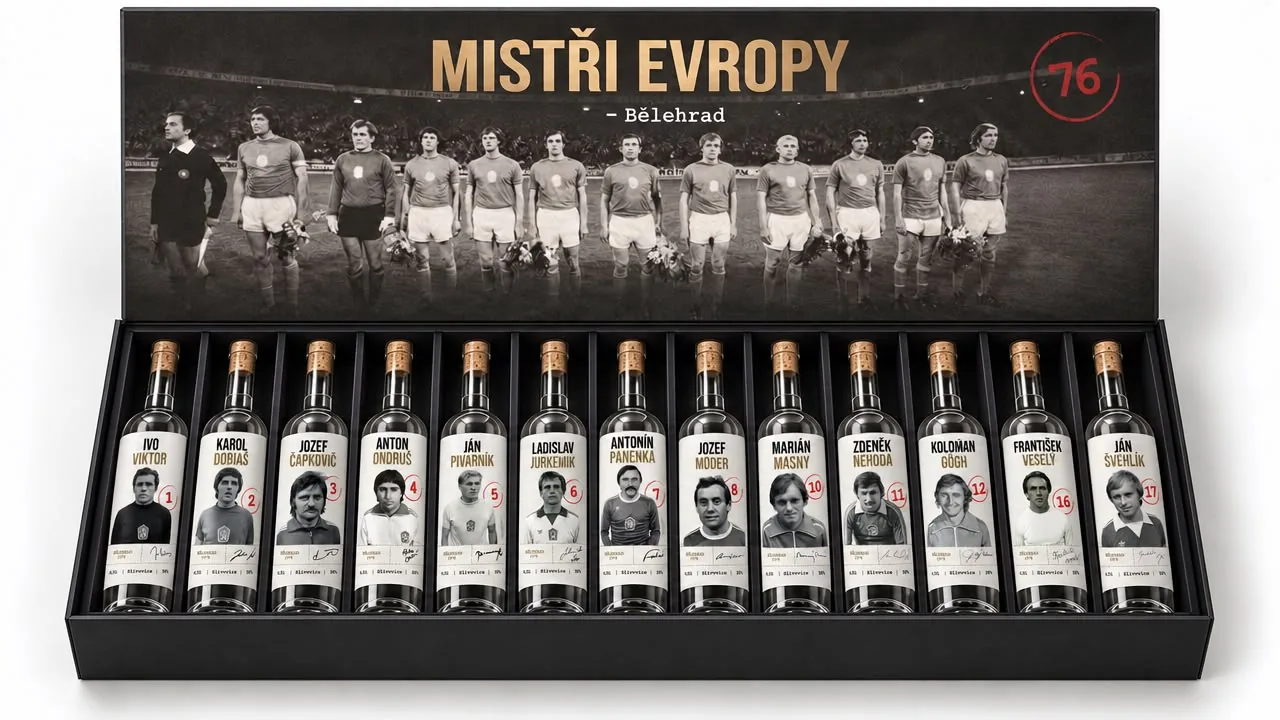
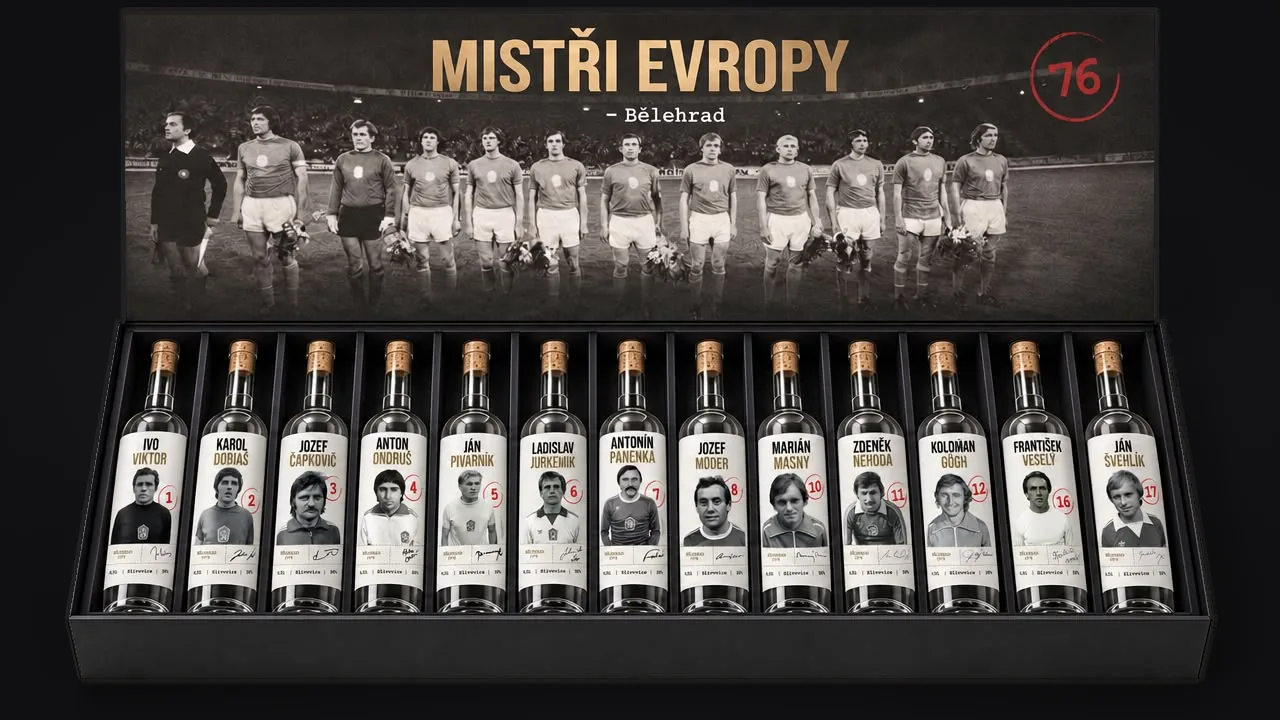
Box na tmavém pozadí, bez fotky 13 lahví, objednávky znovu povolené
- fotky otevřeného a zavřeného boxu na tmavém pozadí (scripts/box-backdrop.ts, součást images:prepare)
- fotka 13 lahví vedle sebe odstraněna (galerie boxu, sekce Příběh na úvodu – místo ní zavřený box)
- zavřený box v galerii e-shopu zmenšený, bez bílých pruhů; ?v=2 kvůli mezipaměti
- objednávky znovu povolené (sales.open = true), web dál za PINem, platba převodem / QR

Changed region(s): [[0.0, 0.0, 1.0, 1.0]]

diff --git a/scripts/box-backdrop.ts b/scripts/box-backdrop.ts
@@ -1,0 +1,109 @@
+/**
+ * Fotky boxu na tmavém pozadí (stejné jako nová fotka lahve): bílé pozadí fotky se nahradí tmavým
+ * šedým přechodem – uprostřed o něco světlejším, k okrajům tmavším. Box se neořezává ani nevyřezává.
+ *
+ * 1. Bílé pozadí = vše světlé, co je dosažitelné od okraje fotky → nahradí se tmavým pozadím.
+ * 2. Stín kolem boxu (šedý) = navazuje na bílé pozadí → nahradí se tmavším pozadím.
+ * 3. Hrana boxu (pás pár pixelů na obě strany hrany – přechodové pixely a šedé obrysové linky víka): odečte se
+ *    z nich jen podíl bílé a nahradí podílem tmavého pozadí – linky zůstanou souvislé, bez světlého lemu.
+ *
+ * Používá npm run images:prepare.
+ */
+import sharp from "sharp";
+
+const EDGE = [16, 16, 18]; // tmavé pozadí u okrajů (podle fotky lahve)
+const CENTER = [40, 38, 44]; // světlejší střed
+const WHITE_BG = 200; // jas bílého pozadí
+const SHADOW = 90; // jas stínu pod boxem
+const BOX_LUM = 35; // typický jas boxu (pro rozklad přechodových pixelů)
+const RIM = 4; // šířka pásu u hrany boxu, kde se přechodové pixely rozkládají
+
+export async function boxOnBackdrop(src: string): Promise<sharp.Sharp> {
+  const { data, info } = await sharp(src).rotate().removeAlpha().raw().toBuffer({ resolveWithObject: true });
+  const W = info.width;
+  const H = info.height;
+  const N = W * H;
+  const lum = (i: number) => 0.299 * data[i * 3] + 0.587 * data[i * 3 + 1] + 0.114 * data[i * 3 + 2];
+
+  // 1 + 2: pozadí (BFS od okrajů) – bílá kdekoli, šedý stín jen ve spodní polovině
+  const bg = new Uint8Array(N);
+  const queue = new Int32Array(N);
+  let head = 0;
+  let tail = 0;
+  const push = (i: number) => {
+    if (bg[i]) return;
+    const l = lum(i);
+    if (l > SHADOW) {
+      bg[i] = 1;
+      queue[tail++] = i;
+    }
+  };
+  for (let x = 0; x < W; x++) {
+    push(x);
+    push((H - 1) * W + x);
+  }
+  for (let y = 0; y < H; y++) {
+    push(y * W);
+    push(y * W + W - 1);
+  }
+  while (head < tail) {
+    const i = queue[head++];
+    const x = i % W;
+    if (x > 0) push(i - 1);
+    if (x < W - 1) push(i + 1);
+    if (i >= W) push(i - W);
+    if (i < N - W) push(i + W);
+  }
+
+  // Referenční bílá (95. percentil jasu pozadí) a její barva
+  const lums: number[] = [];
+  for (let i = 0; i < N; i += 7) if (bg[i]) lums.push(lum(i));
+  lums.sort((a, b) => a - b);
+  const white = lums[Math.floor(lums.length * 0.95)] || 255;
+  const whiteRgb = [white, white, white];
+
+  // 3: pás u hrany boxu – RIM px do boxu a RIM px do šedého pozadí (obrysové linky)
+  const band = new Uint8Array(N);
+  const grow = (fromBg: boolean) => {
+    let frontier: number[] = [];
+    for (let i = 0; i < N; i++) if (!!bg[i] === fromBg) frontier.push(i);
+    for (let d = 0; d < RIM; d++) {
+      const next: number[] = [];
+      for (const i of frontier) {
+        const x = i % W;
+        for (const j of [x > 0 ? i - 1 : -1, x < W - 1 ? i + 1 : -1, i - W, i + W]) {
+          if (j < 0 || j >= N || band[j] || !!bg[j] === fromBg) continue;
+          if (!fromBg && lum(j) > WHITE_BG) continue; // bílé pozadí u hrany se nahradí celé
+          band[j] = 1;
+          next.push(j);
+        }
+      }
+      frontier = next;
+    }
+  };
+  grow(true); // do boxu
+  grow(false); // do šedého pozadí
+
+  const out = Buffer.from(data);
+  const smooth = (v: number) => v * v * (3 - 2 * v);
+  for (let y = 0; y < H; y++) {
+    const dy = (y - H / 2) / (H / 2);
+    for (let x = 0; x < W; x++) {
+      const i = y * W + x;
+      if (!bg[i] && !band[i]) continue;
+      const inBand = band[i] === 1;
+      const dx = (x - W / 2) / (W / 2);
+      const k = smooth(Math.min(1, Math.hypot(dx, dy) / 1.2)); // 0 uprostřed, 1 v rozích
+      const backdrop = [0, 1, 2].map((c) => CENTER[c] + (EDGE[c] - CENTER[c]) * k);
+      if (!inBand) {
+        const f = Math.min(1, lum(i) / white); // stín pod boxem → tmavší
+        for (let c = 0; c < 3; c++) out[i * 3 + c] = Math.round(backdrop[c] * f);
+      } else {
+        // pixel = a·bílá + (1−a)·box → nahradit bílou složku tmavým pozadím
+        const a = Math.min(1, Math.max(0, (lum(i) - BOX_LUM) / (white - BOX_LUM)));
+        for (let c = 0; c < 3; c++) out[i * 3 + c] = Math.max(0, Math.round(data[i * 3 + c] + a * (backdrop[c] - whiteRgb[c])));
+      }
+    }
+  }
+  return sharp(out, { raw: { width: W, height: H, channels: 3 } });
+}

diff --git a/scripts/prepare-images.ts b/scripts/prepare-images.ts
@@ -1,14 +1,14 @@
 /**
  * Připraví fotky pro web z roztříděných originálů ve složce foto/:
  *
- *   foto/box/1-otevreny.jpg, 2-trinact-lahvi.jpg, 3-zavreny.jpg
+ *   foto/box/1-otevreny.jpg, 3-zavreny.jpg      (bílé pozadí se nahradí tmavým – scripts/box-backdrop.ts)
  *   foto/hraci/NN-<slug>/1-lahev.jpg, 2-etiketa.jpg      (NN = číslo dresu, slug = Product.slug)
  *
  * Výstup do public/img/ (cesty používá DB – Product.imageUrl a galleryUrls):
  *   - .webp pro web (menší soubory, podporují všechny současné prohlížeče),
  *   - .jpg pro náhled při sdílení (Facebook, Messenger WebP spolehlivě nezobrazí).
  *
- *   public/img/box/otevreny.(webp|jpg), trinact-lahvi.*, zavreny.*
+ *   public/img/box/otevreny.(webp|jpg), zavreny.*
  *   public/img/hraci/<slug>-lahev.*, <slug>-etiketa.*
  *
  * Spuštění: npm run images:prepare
@@ -17,6 +17,7 @@ import path from "node:path";
 import fs from "node:fs/promises";
 import sharp from "sharp";
 import { PLAYERS } from "../prisma/players";
+import { boxOnBackdrop } from "./box-backdrop";
 
 const ROOT = path.resolve(__dirname, "..");
 const SRC = path.join(ROOT, "foto");
@@ -25,8 +26,9 @@ const OUT = path.join(ROOT, "public", "img");
 /** Nejdelší strana výstupu – originály jsou menší, takže se jen nezvětšují. */
 const MAX_SIDE = 1600;
 
-async function convert(src: string, outBase: string) {
-  const image = sharp(src).rotate().resize(MAX_SIDE, MAX_SIDE, { fit: "inside", withoutEnlargement: true });
+async function convert(src: string, outBase: string, darkBackdrop = false) {
+  const base = darkBackdrop ? sharp(await (await boxOnBackdrop(src)).png().toBuffer()) : sharp(src).rotate();
+  const image = base.resize(MAX_SIDE, MAX_SIDE, { fit: "inside", withoutEnlargement: true });
   await image.clone().webp({ quality: 82, effort: 6 }).toFile(`${outBase}.webp`);
   await image.clone().jpeg({ quality: 85, mozjpeg: true }).toFile(`${outBase}.jpg`);
   const meta = await sharp(`${outBase}.webp`).metadata();
@@ -41,9 +43,8 @@ async function main() {
   await fs.mkdir(path.join(OUT, "hraci"), { recursive: true });
 
   // Box: otevřený, 13 lahví vedle sebe, zavřený (pořadí v galerii)
-  await convert(path.join(SRC, "box", "1-otevreny.jpg"), path.join(OUT, "box", "otevreny"));
-  await convert(path.join(SRC, "box", "2-trinact-lahvi.jpg"), path.join(OUT, "box", "trinact-lahvi"));
-  await convert(path.join(SRC, "box", "3-zavreny.jpg"), path.join(OUT, "box", "zavreny"));
+  await convert(path.join(SRC, "box", "1-otevreny.jpg"), path.join(OUT, "box", "otevreny"), true);
+  await convert(path.join(SRC, "box", "3-zavreny.jpg"), path.join(OUT, "box", "zavreny"), true);
 
   // Hráči: nejdřív lahev, pak etiketa
   const dirs = await fs.readdir(path.join(SRC, "hraci"));

diff --git a/src/app/(web)/page.tsx b/src/app/(web)/page.tsx
@@ -29,7 +29,7 @@ export default async function HomePage() {
       {/* Úvod */}
       <section id="edice" className="relative scroll-mt-20 overflow-hidden border-b border-line">
         {/* eslint-disable-next-line @next/next/no-img-element */}
-        <img src="/img/box/zavreny.webp" alt="" aria-hidden="true" className="absolute inset-0 h-full w-full object-cover opacity-25" />
+        <img src="/img/box/zavreny.webp?v=2" alt="" aria-hidden="true" className="absolute inset-0 h-full w-full object-cover opacity-25" />
         <div className="absolute inset-0 bg-gradient-to-b from-ink/60 via-ink/70 to-ink" />
         <div className="relative mx-auto grid max-w-6xl items-center gap-10 px-4 py-20 md:grid-cols-[1fr_auto] md:py-28">
           <div>
@@ -100,7 +100,7 @@ export default async function HomePage() {
             <Markdown source={story.body} settings={settings} className="mt-6 text-lg" />
           </div>
           {/* eslint-disable-next-line @next/next/no-img-element */}
-          <img src="/img/box/trinact-lahvi.webp" alt="Třináct lahví edice s portréty hráčů" className="w-full border border-line bg-white" />
+          <img src="/img/box/zavreny.webp?v=2" alt="Box Mistři Evropy – zavřený box" className="w-full border border-line" />
         </section>
       )}
 

diff --git a/src/app/(web)/layout.tsx b/src/app/(web)/layout.tsx
@@ -24,7 +24,7 @@ export async function generateMetadata(): Promise<Metadata> {
       siteName: "Mistři Evropy – Bělehrad 1976",
       title: "Mistři Evropy – Bělehrad 1976",
       description,
-      images: [{ url: "/img/box/otevreny.jpg", width: 1280, height: 720, alt: "Box Mistři Evropy – Bělehrad 1976" }],
+      images: [{ url: "/img/box/otevreny.jpg?v=2", width: 1280, height: 720, alt: "Box Mistři Evropy – Bělehrad 1976" }],
     },
   };
 }

diff --git a/src/app/(web)/eshop/page.tsx b/src/app/(web)/eshop/page.tsx
@@ -45,7 +45,7 @@ export default async function EshopPage() {
                       src={src}
                       alt={i === 0 ? "Třináct lahví edice vedle sebe" : `${box.name} – zavřený box`}
                       loading="lazy"
-                      className="aspect-[16/9] w-full border border-line bg-white object-contain"
+                      className="w-full border border-line"
                     />
                   ))}
               </div>

diff --git a/prisma/seed.ts b/prisma/seed.ts
@@ -31,8 +31,8 @@ async function main() {
       priceCzk: 9880,
       stock: 144,
       madeToOrder: false,
-      imageUrl: "/img/box/otevreny.webp",
-      galleryUrls: ["/img/box/otevreny.webp", "/img/box/trinact-lahvi.webp", "/img/box/zavreny.webp"],
+      imageUrl: "/img/box/otevreny.webp?v=2",
+      galleryUrls: ["/img/box/otevreny.webp?v=2", "/img/box/zavreny.webp?v=2"],
       sortOrder: 0,
     },
   });
